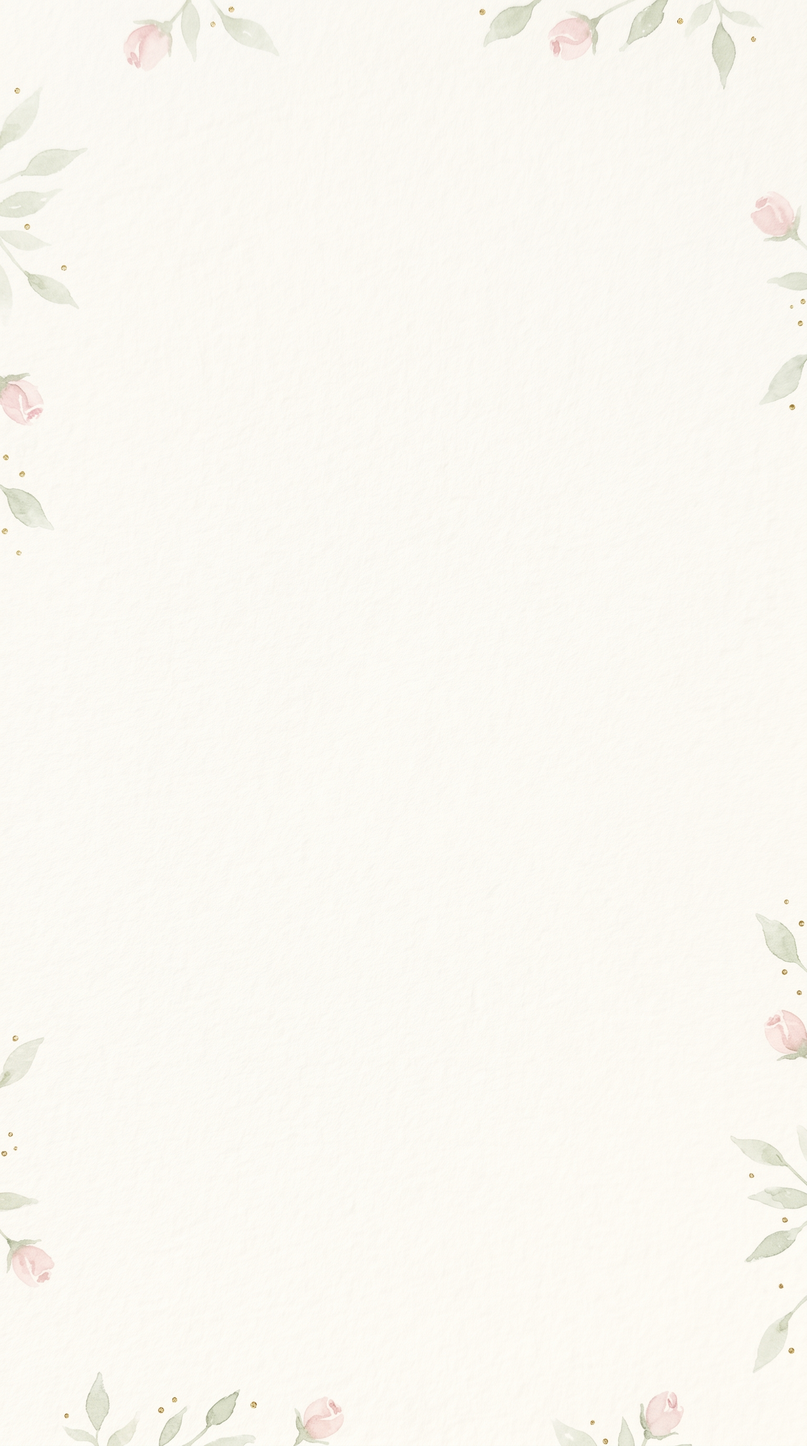
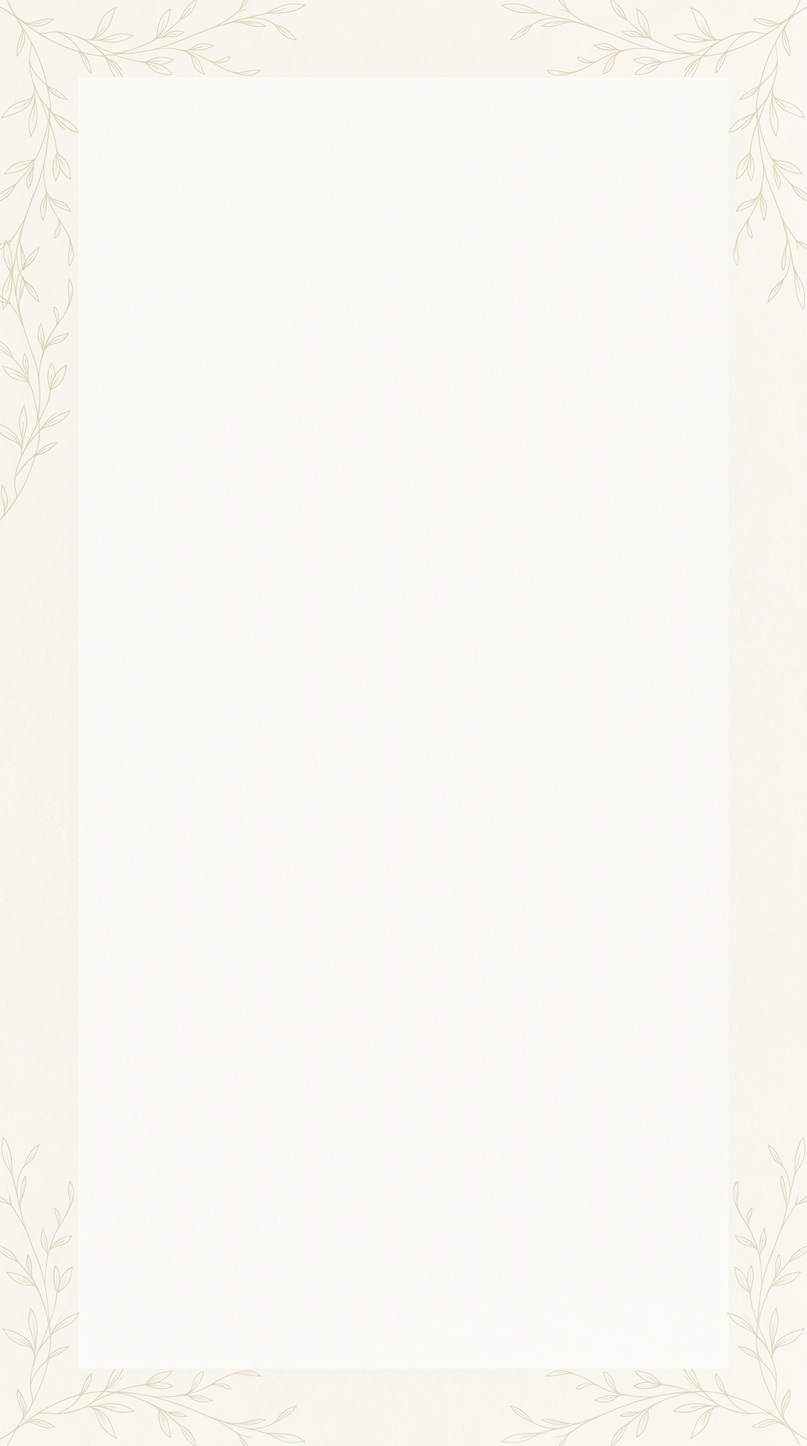
Switch to Option D — Classic Gold Foil Feminine aesthetic
Replace dark luxury backgrounds with white marble + gold botanical
frame (cover) and subtle ivory botanical edge accents (content).
Update _dk cover text styles to dark colors (plum/rose/charcoal)
for legibility on the new light background. Replace solid plum
header bar with elegant gold double-rule + plum text header.

https://claude.ai/code/session_01A7nVif34PBDLJNmkhbUjyG

diff --git a/inject_option_d.py b/inject_option_d.py
@@ -1,0 +1,104 @@
+#!/usr/bin/env python3
+"""Adapts PDF styles for Option D — Classic Gold Foil Feminine.
+
+Changes:
+1. _dk cover styles: white-on-dark -> dark-on-light (cover_bg.png is now ivory)
+2. Header bar: solid plum rect -> elegant gold double-rule with plum text
+"""
+import os
+
+# ── 1. Update _dk styles to dark text (light marble background) ───────────────
+OLD_DK_STYLES = (
+    "            # Dark-background cover variants (used on page 1 over dark PNG)\n"
+    "            'cover_title_dk': s('ctdk', fontSize=28, leading=35,\n"
+    "                                textColor=HexColor('#FFFFFF'), alignment=TA_CENTER,\n"
+    "                                spaceAfter=30, fontName='Helvetica-Bold', charSpace=1.5),\n"
+    "            'cover_sub_dk':   s('csdk', fontSize=16, leading=20,\n"
+    "                                textColor=HexColor('#F9B8C0'), alignment=TA_CENTER,\n"
+    "                                spaceAfter=10, fontName='Helvetica-Oblique'),\n"
+    "            'cover_price_dk': s('cpdk', fontSize=22, textColor=HexColor('#D4A574'),\n"
+    "                                alignment=TA_CENTER, spaceAfter=4, fontName='Helvetica-Bold'),\n"
+    "            'cover_tag_dk':   s('cgdk', fontSize=11, textColor=HexColor('#FFF8F0'),\n"
+    "                                alignment=TA_CENTER, fontName='Helvetica'),\n"
+    "        }"
+)
+NEW_DK_STYLES = (
+    "            # Cover-with-background variants (used on page 1 over cover_bg.png)\n"
+    "            'cover_title_dk': s('ctdk', fontSize=28, leading=35,\n"
+    "                                textColor=HexColor('#6B2D5E'), alignment=TA_CENTER,\n"
+    "                                spaceAfter=30, fontName='Helvetica-Bold', charSpace=1.5),\n"
+    "            'cover_sub_dk':   s('csdk', fontSize=16, leading=20,\n"
+    "                                textColor=HexColor('#B76E79'), alignment=TA_CENTER,\n"
+    "                                spaceAfter=10, fontName='Helvetica-Oblique'),\n"
+    "            'cover_price_dk': s('cpdk', fontSize=22, textColor=HexColor('#C4963A'),\n"
+    "                                alignment=TA_CENTER, spaceAfter=4, fontName='Helvetica-Bold'),\n"
+    "            'cover_tag_dk':   s('cgdk', fontSize=11, textColor=HexColor('#3A3A3A'),\n"
+    "                                alignment=TA_CENTER, fontName='Helvetica'),\n"
+    "        }"
+)
+
+# ── 2. Replace plum header bar with gold double-rule elegant header ────────────
+OLD_HEADER = (
+    "        # Plum header bar\n"
+    "        canv.setFillColor(Brand.PLUM)\n"
+    "        canv.rect(m, h - m - 0.45*inch, w - 2*m, 0.45*inch, fill=1, stroke=0)\n"
+    "\n"
+    "        # Logo (embedded if present)\n"
+    "        if os.path.exists(Brand.LOGO):\n"
+    "            canv.drawImage(Brand.LOGO, m + 4, h - m - 0.42*inch,\n"
+    "                           width=0.38*inch, height=0.38*inch,\n"
+    "                           preserveAspectRatio=True, mask='auto')\n"
+    "\n"
+    "        canv.setFont('Helvetica-Bold', 10)\n"
+    "        canv.setFillColor(white)\n"
+    "        canv.drawString(m + 0.48*inch, h - m - 0.29*inch, 'MOM RESCUE PACK')\n"
+    "\n"
+    "        canv.setFont('Helvetica', 9)\n"
+    "        canv.drawRightString(w - m - 4, h - m - 0.29*inch, title)"
+)
+NEW_HEADER = (
+    "        # Gold double-rule header (Option D — Classic Gold Foil)\n"
+    "        canv.setStrokeColor(Brand.GOLD)\n"
+    "        canv.setLineWidth(1.8)\n"
+    "        canv.line(m, h - m - 0.06*inch, w - m, h - m - 0.06*inch)\n"
+    "        canv.setLineWidth(0.4)\n"
+    "        canv.line(m, h - m - 0.12*inch, w - m, h - m - 0.12*inch)\n"
+    "\n"
+    "        # Logo (embedded if present)\n"
+    "        if os.path.exists(Brand.LOGO):\n"
+    "            canv.drawImage(Brand.LOGO, m + 4, h - m - 0.44*inch,\n"
+    "                           width=0.30*inch, height=0.30*inch,\n"
+    "                           preserveAspectRatio=True, mask='auto')\n"
+    "\n"
+    "        canv.setFont('Helvetica-Bold', 9)\n"
+    "        canv.setFillColor(Brand.PLUM)\n"
+    "        canv.drawString(m + 0.42*inch, h - m - 0.32*inch, 'MOM RESCUE PACK')\n"
+    "\n"
+    "        canv.setFont('Helvetica-Oblique', 9)\n"
+    "        canv.setFillColor(Brand.ROSE_GOLD)\n"
+    "        canv.drawRightString(w - m - 4, h - m - 0.32*inch, title)\n"
+    "\n"
+    "        canv.setStrokeColor(Brand.GOLD)\n"
+    "        canv.setLineWidth(0.4)\n"
+    "        canv.line(m, h - m - 0.46*inch, w - m, h - m - 0.46*inch)"
+)
+
+with open('launch_build.py', encoding='utf-8') as f:
+    src = f.read()
+
+assert OLD_DK_STYLES in src, 'Block not found: _dk styles'
+assert OLD_HEADER    in src, 'Block not found: header bar'
+
+src = src.replace(OLD_DK_STYLES, NEW_DK_STYLES, 1)
+src = src.replace(OLD_HEADER,    NEW_HEADER,    1)
+
+with open('launch_build.py', 'w', encoding='utf-8') as f:
+    f.write(src)
+
+print('Option D styles applied.')
+print('  cover_title_dk  -> plum   #6B2D5E  (on light marble)')
+print('  cover_sub_dk    -> rose   #B76E79')
+print('  cover_price_dk  -> gold   #C4963A  (deeper for light bg)')
+print('  cover_tag_dk    -> charcoal #3A3A3A')
+print('  header          -> gold double-rule + plum text (no filled bar)')
+print('  launch_build.py:', os.path.getsize('launch_build.py'), 'bytes')

diff --git a/launch_build.py b/launch_build.py
@@ -152,16 +152,16 @@ class MomRescueBuilder:
                              alignment=TA_CENTER, fontName='Helvetica'),
             'habit_label': s('hl', fontSize=9, textColor=HexColor('#6B2D5E'),
                              alignment=TA_LEFT, fontName='Helvetica-Bold'),
-            # Dark-background cover variants (used on page 1 over dark PNG)
+            # Cover-with-background variants (used on page 1 over cover_bg.png)
             'cover_title_dk': s('ctdk', fontSize=28, leading=35,
-                                textColor=HexColor('#FFFFFF'), alignment=TA_CENTER,
+                                textColor=HexColor('#6B2D5E'), alignment=TA_CENTER,
                                 spaceAfter=30, fontName='Helvetica-Bold', charSpace=1.5),
             'cover_sub_dk':   s('csdk', fontSize=16, leading=20,
-                                textColor=HexColor('#F9B8C0'), alignment=TA_CENTER,
+                                textColor=HexColor('#B76E79'), alignment=TA_CENTER,
                                 spaceAfter=10, fontName='Helvetica-Oblique'),
-            'cover_price_dk': s('cpdk', fontSize=22, textColor=HexColor('#D4A574'),
+            'cover_price_dk': s('cpdk', fontSize=22, textColor=HexColor('#C4963A'),
                                 alignment=TA_CENTER, spaceAfter=4, fontName='Helvetica-Bold'),
-            'cover_tag_dk':   s('cgdk', fontSize=11, textColor=HexColor('#FFF8F0'),
+            'cover_tag_dk':   s('cgdk', fontSize=11, textColor=HexColor('#3A3A3A'),
                                 alignment=TA_CENTER, fontName='Helvetica'),
         }
 
@@ -179,22 +179,30 @@ class MomRescueBuilder:
             canv.drawImage(_content_bg, 0, 0, width=w, height=h,
                           preserveAspectRatio=False, mask=None)
 
-        # Plum header bar
-        canv.setFillColor(Brand.PLUM)
-        canv.rect(m, h - m - 0.45*inch, w - 2*m, 0.45*inch, fill=1, stroke=0)
+        # Gold double-rule header (Option D — Classic Gold Foil)
+        canv.setStrokeColor(Brand.GOLD)
+        canv.setLineWidth(1.8)
+        canv.line(m, h - m - 0.06*inch, w - m, h - m - 0.06*inch)
+        canv.setLineWidth(0.4)
+        canv.line(m, h - m - 0.12*inch, w - m, h - m - 0.12*inch)
 
         # Logo (embedded if present)
         if os.path.exists(Brand.LOGO):
-            canv.drawImage(Brand.LOGO, m + 4, h - m - 0.42*inch,
-                           width=0.38*inch, height=0.38*inch,
+            canv.drawImage(Brand.LOGO, m + 4, h - m - 0.44*inch,
+                           width=0.30*inch, height=0.30*inch,
                            preserveAspectRatio=True, mask='auto')
 
-        canv.setFont('Helvetica-Bold', 10)
-        canv.setFillColor(white)
-        canv.drawString(m + 0.48*inch, h - m - 0.29*inch, 'MOM RESCUE PACK')
+        canv.setFont('Helvetica-Bold', 9)
+        canv.setFillColor(Brand.PLUM)
+        canv.drawString(m + 0.42*inch, h - m - 0.32*inch, 'MOM RESCUE PACK')
 
-        canv.setFont('Helvetica', 9)
-        canv.drawRightString(w - m - 4, h - m - 0.29*inch, title)
+        canv.setFont('Helvetica-Oblique', 9)
+        canv.setFillColor(Brand.ROSE_GOLD)
+        canv.drawRightString(w - m - 4, h - m - 0.32*inch, title)
+
+        canv.setStrokeColor(Brand.GOLD)
+        canv.setLineWidth(0.4)
+        canv.line(m, h - m - 0.46*inch, w - m, h - m - 0.46*inch)
 
         # Gold footer rule
         canv.setStrokeColor(Brand.GOLD)
